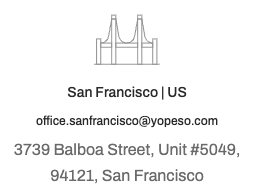
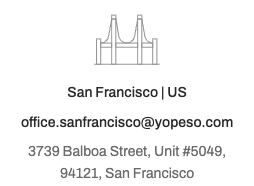
Use small type for helper copy and contact details

diff --git a/design-library.html b/design-library.html
@@ -19,7 +19,7 @@
 <div><div class="swatch" style="background:#fdfdfd"></div><strong>Paper</strong><code>--paper</code><small>#FDFDFD</small></div>
 </div></section>
 <section class="block" id="typography"><h2>Typography</h2>
-<p class="note">Manrope for headings. Archivo for body text, labels and actions.</p>
+<p class="note">Manrope for headings. Archivo Body (16px) for introductions, descriptions and prose. Archivo Small (14px) for helper text, office contact details, result counts and explanatory notes.</p>
 <div class="scroller"><table class="measures"><thead><tr><th>Text style</th><th>Token</th><th>Desktop rule</th><th>Mobile rule</th></tr></thead><tbody>
 <tr><td data-label="Text style"><span style="font:700 72px/1.15 Manrope">Display</span></td><td data-label="Token"><code>--type-display</code></td><td data-label="Desktop rule">clamp(44px,5.1vw,72px)</td><td data-label="Mobile rule">43px</td></tr>
 <tr><td data-label="Text style"><span style="font:500 64px/1.15 Manrope">Contact</span></td><td data-label="Token"><code>--type-contact</code></td><td data-label="Desktop rule">clamp(42px,4.7vw,64px)</td><td data-label="Mobile rule">43px</td></tr>
@@ -147,7 +147,7 @@
 </dl><details><summary>Full measurements</summary><dl>
 <dt>Margin</dt><dd>0px / 0px 8px</dd>
 <dt>Width</dt><dd>1512px / 374px</dd>
-<dt>Height</dt><dd>6629.62px / 11813.9px</dd>
+<dt>Height</dt><dd>6597.62px / 11737.1px</dd>
 <dt>Top border</dt><dd>0px none rgb(41, 41, 41)</dd>
 <dt>Grid columns</dt><dd>none</dd>
 </dl><code>.site-shell</code></details><a href="index.html">View source page ↗</a></div></article>
@@ -225,7 +225,7 @@
 </dl><details><summary>Full measurements</summary><dl>
 <dt>Margin</dt><dd>0px</dd>
 <dt>Width</dt><dd>252.953px / 155.562px</dd>
-<dt>Height</dt><dd>187.766px / 221.547px</dd>
+<dt>Height</dt><dd>184.562px / 218.344px</dd>
 <dt>Top border</dt><dd>0px none rgb(41, 41, 41)</dd>
 <dt>Grid columns</dt><dd>none</dd>
 </dl><code>.footer-location</code></details><a href="index.html">View source page ↗</a></div></article>

diff --git a/typography.css b/typography.css
@@ -79,5 +79,23 @@ nav button,.hero-invite,.proof p,.lab-options p,.section-bottom,.contact-context
 
 /* Body copy across page templates, including compact card and diagram layouts. */
 p:not(.sr-only, .activity-status), .role-detail article li, .lab-options > div:not(.eyebrow) {
-  font-size: var(--type-body) !important;
+  font-size: var(--paragraph-size, var(--type-body)) !important;
+}
+
+/* Supporting copy qualifies an action, reports a result, or supplies contact details. */
+.hero-invite,
+.footer-location,
+.footer-brand,
+.dialog-note,
+.bos-note,
+.bos-confidentiality,
+.lab-options p,
+#role-count,
+.no-roles p {
+  --paragraph-size: var(--type-small);
+}
+
+.footer-location .office-email,
+.office-slide address {
+  font-size: var(--type-small);
 }

diff --git a/design-library.css b/design-library.css
@@ -23,3 +23,5 @@
 }
 
 .radius p { font-size: 16px; }
+
+.note { font-size: 14px; }
